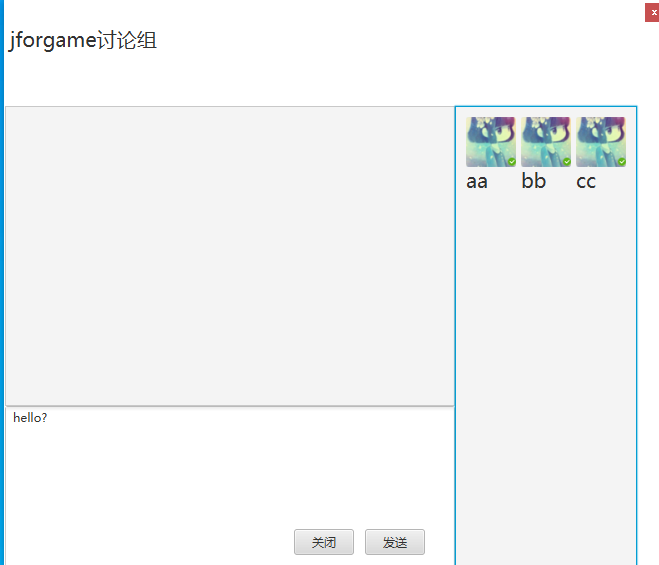
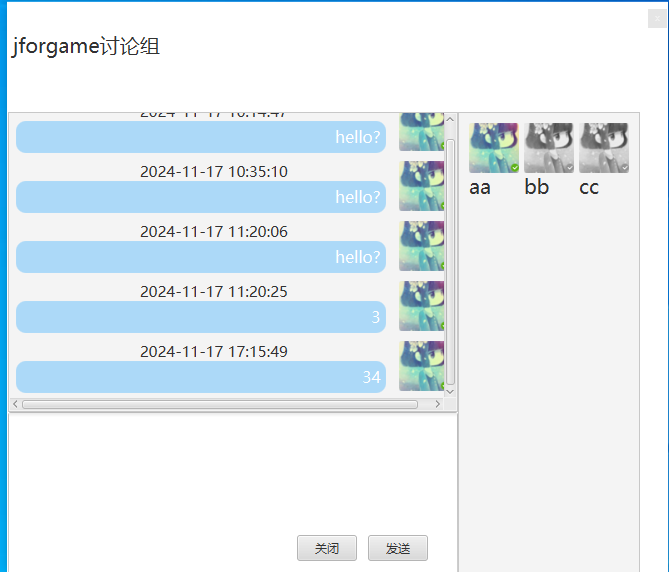
细化讨论组通信流程

Changed region(s): [[0.0, 0.0, 1.0, 1.0], [0.4249, 0.9327, 0.6373, 0.9929]]

diff --git a/src/main/java/pers/kinson/wechat/logic/discussion/DiscussionManager.java b/src/main/java/pers/kinson/wechat/logic/discussion/DiscussionManager.java
@@ -32,6 +32,7 @@ import pers.kinson.wechat.net.CmdConst;
 import pers.kinson.wechat.net.IOUtil;
 import pers.kinson.wechat.ui.R;
 import pers.kinson.wechat.ui.StageController;
+import pers.kinson.wechat.util.ImageUtil;
 
 import java.util.HashMap;
 import java.util.LinkedList;
@@ -144,6 +145,9 @@ public class DiscussionManager implements LifeCycle {
                 Label label = new Label(vo.getNickName());
                 label.setMaxWidth(50);
                 label.setFont(new Font(20));
+                if (vo.getOnline() == 0) {
+                    head.setImage(ImageUtil.convertToGray(head.getImage()));
+                }
                 vBox.getChildren().add(label);
                 groupListView.getChildren().add(vBox);
             });
@@ -153,38 +157,48 @@ public class DiscussionManager implements LifeCycle {
 
     private void notifyNewMessage(Object packet) {
         ResNewMessageNotify message = (ResNewMessageNotify) packet;
-        DiscussionGroupVo targetDiscussionGroup = discussionGroups.get(NumberUtil.longValue(message.getTopic()));
-        if (targetDiscussionGroup != null) {
-            ReqFetchNewMessage reqFetchNewMessage = new ReqFetchNewMessage();
-            reqFetchNewMessage.setChannel(Constants.CHANNEL_DISCUSSION);
-            reqFetchNewMessage.setTopic("" + targetDiscussionGroup.getId());
-            reqFetchNewMessage.setMaxSeq(targetDiscussionGroup.getMaxSeq());
-            IOUtil.send(reqFetchNewMessage);
+        ReqFetchNewMessage reqFetchNewMessage = new ReqFetchNewMessage();
+        // 这里先写点丑代码，后续优化
+        if (message.getChannel() == Constants.CHANNEL_DISCUSSION) {
+            DiscussionGroupVo targetDiscussionGroup = discussionGroups.get(NumberUtil.longValue(message.getTopic()));
+            if (targetDiscussionGroup != null) {
+                reqFetchNewMessage.setChannel(Constants.CHANNEL_DISCUSSION);
+                reqFetchNewMessage.setTopic(targetDiscussionGroup.getId());
+                reqFetchNewMessage.setMaxSeq(targetDiscussionGroup.getMaxSeq());
+
+            }
+        } else if (message.getChannel() == Constants.CHANNEL_PERSON) {
+
         }
+        IOUtil.send(reqFetchNewMessage);
+
     }
 
     private void refreshNewMessage(Object packet) {
         ResNewMessage message = (ResNewMessage) packet;
-        long discussionId = NumberUtil.longValue(message.getTopic());
-        discussionMessages.putIfAbsent(discussionId, new LinkedList<>());
-
         long maxSeq = 0;
         for (ChatMessage e : message.getMessages()) {
             e.setContent(Context.messageContentFactory.parse(e.getType(), e.getJson()));
             maxSeq = Math.max(maxSeq, e.getSeq());
         }
 
-        discussionGroups.get(discussionId).setMaxSeq(maxSeq);
-        discussionMessages.get(discussionId).addAll(message.getMessages());
+        // 这里先写点丑代码，后续优化
+        if (message.getChannel() == Constants.CHANNEL_DISCUSSION) {
+            long discussionId = message.getTopic();
+            discussionMessages.putIfAbsent(discussionId, new LinkedList<>());
+            discussionGroups.get(discussionId).setMaxSeq(maxSeq);
+            discussionMessages.get(discussionId).addAll(message.getMessages());
 
-        Stage stage = UiContext.stageController.getStageBy(R.id.DiscussionGroup);
-        VBox msgContainer = (VBox) stage.getScene().getRoot().lookup("#msgContainer");
-        if (UiContext.stageController.isStageShown(R.id.DiscussionGroup)) {
-            message.getMessages().forEach(e -> {
-                Pane pane = decorateChatRecord(e);
-                msgContainer.getChildren().add(pane);
-            });
+            Stage stage = UiContext.stageController.getStageBy(R.id.DiscussionGroup);
+            VBox msgContainer = (VBox) stage.getScene().getRoot().lookup("#msgContainer");
+            if (UiContext.stageController.isStageShown(R.id.DiscussionGroup)) {
+                message.getMessages().forEach(e -> {
+                    Pane pane = decorateChatRecord(e);
+                    msgContainer.getChildren().add(pane);
+                });
+            }
         }
+
     }
 
 

diff --git a/src/main/java/pers/kinson/wechat/logic/chat/message/res/ResNewMessage.java b/src/main/java/pers/kinson/wechat/logic/chat/message/res/ResNewMessage.java
@@ -13,7 +13,7 @@ public class ResNewMessage {
 
     private byte channel;
 
-    private String topic;
+    private long topic;
 
     private List<ChatMessage> messages;
 }

diff --git a/src/main/java/pers/kinson/wechat/logic/chat/message/req/ReqFetchNewMessage.java b/src/main/java/pers/kinson/wechat/logic/chat/message/req/ReqFetchNewMessage.java
@@ -10,7 +10,7 @@ public class ReqFetchNewMessage {
 
     private byte channel;
 
-    private String topic;
+    private long topic;
 
     private long maxSeq;
 

diff --git a/src/main/java/pers/kinson/wechat/logic/chat/message/res/ResNewMessageNotify.java b/src/main/java/pers/kinson/wechat/logic/chat/message/res/ResNewMessageNotify.java
@@ -10,5 +10,5 @@ public class ResNewMessageNotify {
 
     private byte channel;
 
-    private String topic;
+    private long topic;
 }

diff --git a/src/main/java/pers/kinson/wechat/logic/discussion/message/vo/DiscussionMemberVo.java b/src/main/java/pers/kinson/wechat/logic/discussion/message/vo/DiscussionMemberVo.java
@@ -21,4 +21,6 @@ public class DiscussionMemberVo {
      * 职位
      */
     private byte position;
+
+    private byte online;
 }
